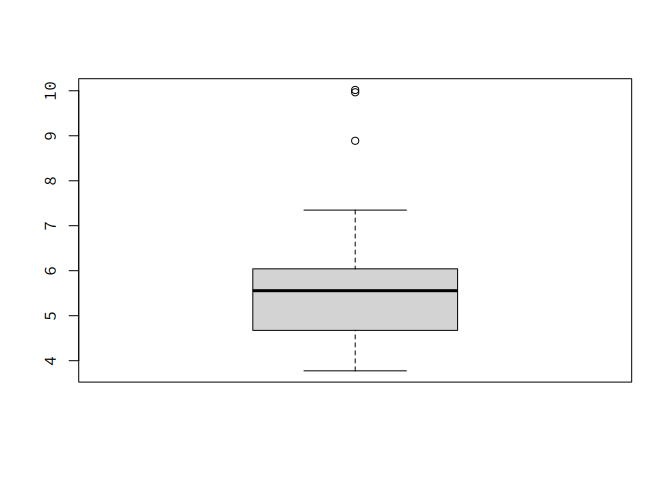
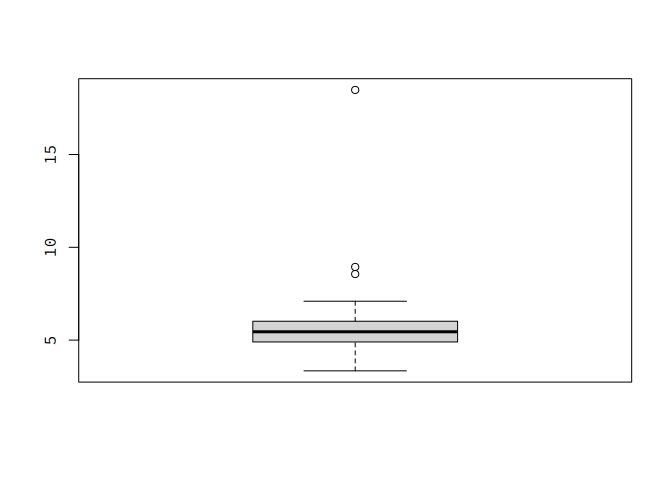
Dodano wnioski (do poprawy)

diff --git a/docs/README.md b/docs/README.md
@@ -83,11 +83,11 @@ Podsumowanie:
     summary(ackley_2_ga)
 
     ##    Min. 1st Qu.  Median    Mean 3rd Qu.    Max. 
-    ## 0.03216 0.21794 0.42402 0.59028 0.66128 2.46359
+    ## 0.02999 0.20099 0.46826 0.60629 0.92401 2.13830
 
 Średnia wartość:
 
-    ## [1] 0.5902753
+    ## [1] 0.6062938
 
 ### PRS
 
@@ -104,11 +104,11 @@ Podsumowanie:
     summary(ackley_2_prs)
 
     ##    Min. 1st Qu.  Median    Mean 3rd Qu.    Max. 
-    ##   1.906   3.222   3.832   3.911   4.425   7.026
+    ##  0.6788  3.1141  3.9176  4.1437  5.3528  8.1354
 
 Średnia wartość:
 
-    ## [1] 3.911098
+    ## [1] 4.14371
 
 ### Porównanie
 
@@ -118,13 +118,13 @@ Podsumowanie:
     ##  Welch Two Sample t-test
     ## 
     ## data:  ackley_2_ga and ackley_2_prs
-    ## t = -18.575, df = 73.332, p-value < 2.2e-16
+    ## t = -14.48, df = 58.068, p-value < 2.2e-16
     ## alternative hypothesis: true difference in means is not equal to 0
     ## 95 percent confidence interval:
-    ##  -3.677103 -2.964542
+    ##  -4.026420 -3.048413
     ## sample estimates:
     ## mean of x mean of y 
-    ## 0.5902753 3.9110977
+    ## 0.6062938 4.1437103
 
 ## Dla dwóch wymiarów - Funkcja Rastrigina
 
@@ -148,11 +148,11 @@ Podsumowanie:
     summary(rastrigin_2_ga)
 
     ##    Min. 1st Qu.  Median    Mean 3rd Qu.    Max. 
-    ## 0.00366 1.06867 1.50479 1.57228 2.08760 3.84409
+    ## 0.01221 1.02541 1.22151 1.47542 1.93272 5.67109
 
 Średnia wartość:
 
-    ## [1] 1.572275
+    ## [1] 1.475421
 
 ### PRS
 
@@ -169,11 +169,11 @@ Podsumowanie:
     summary(rastrigin_2_prs)
 
     ##    Min. 1st Qu.  Median    Mean 3rd Qu.    Max. 
-    ## 0.07412 1.03024 1.74475 1.78662 2.54177 3.97188
+    ##  0.1931  1.1598  1.5356  1.6456  2.2262  3.4321
 
 Średnia wartość:
 
-    ## [1] 1.786621
+    ## [1] 1.645605
 
 ### Porównanie
 
@@ -183,13 +183,13 @@ Podsumowanie:
     ##  Welch Two Sample t-test
     ## 
     ## data:  rastrigin_2_ga and rastrigin_2_prs
-    ## t = -1.1403, df = 97.014, p-value = 0.257
+    ## t = -0.95726, df = 93.458, p-value = 0.3409
     ## alternative hypothesis: true difference in means is not equal to 0
     ## 95 percent confidence interval:
-    ##  -0.5874107  0.1587189
+    ##  -0.5232036  0.1828346
     ## sample estimates:
     ## mean of x mean of y 
-    ##  1.572275  1.786621
+    ##  1.475421  1.645605
 
 ## Dla dziesięciu wymiarów - Funkcja Ackley’a
 
@@ -213,11 +213,11 @@ Podsumowanie:
     summary(ackley_10_ga)
 
     ##    Min. 1st Qu.  Median    Mean 3rd Qu.    Max. 
-    ##   3.774   4.681   5.556   5.611   6.035  10.018
+    ##   3.345   4.901   5.451   5.771   6.015  18.479
 
 Średnia wartość:
 
-    ## [1] 5.61068
+    ## [1] 5.770527
 
 ### PRS
 
@@ -234,11 +234,11 @@ Podsumowanie:
     summary(ackley_10_prs)
 
     ##    Min. 1st Qu.  Median    Mean 3rd Qu.    Max. 
-    ##   15.74   18.06   18.49   18.30   18.74   19.36
+    ##   14.61   17.65   18.33   18.02   18.77   19.30
 
 Średnia wartość:
 
-    ## [1] 18.29893
+    ## [1] 18.01777
 
 ### Porównanie
 
@@ -248,13 +248,13 @@ Podsumowanie:
     ##  Welch Two Sample t-test
     ## 
     ## data:  ackley_10_ga and ackley_10_prs
-    ## t = -58.843, df = 74.686, p-value < 2.2e-16
+    ## t = -36.884, df = 72.761, p-value < 2.2e-16
     ## alternative hypothesis: true difference in means is not equal to 0
     ## 95 percent confidence interval:
-    ##  -13.11783 -12.25867
+    ##  -12.90906 -11.58543
     ## sample estimates:
     ## mean of x mean of y 
-    ##   5.61068  18.29893
+    ##  5.770527 18.017775
 
 ## Dla dziesięciu wymiarów - Funkcja Rastringa
 
@@ -278,11 +278,11 @@ Podsumowanie:
     summary(rastrigin_10_ga)
 
     ##    Min. 1st Qu.  Median    Mean 3rd Qu.    Max. 
-    ##   47.39   68.34   77.16   75.55   83.45   96.84
+    ##   51.03   67.03   77.11   76.15   84.11  103.37
 
 Średnia wartość:
 
-    ## [1] 75.54835
+    ## [1] 76.15127
 
 ### PRS
 
@@ -299,11 +299,11 @@ Podsumowanie:
     summary(rastrigin_10_prs)
 
     ##    Min. 1st Qu.  Median    Mean 3rd Qu.    Max. 
-    ##   66.18   83.10   86.39   87.10   93.85  102.41
+    ##   63.52   82.77   88.38   87.42   93.24  104.84
 
 Średnia wartość:
 
-    ## [1] 87.10429
+    ## [1] 87.4223
 
 ### Porównanie
 
@@ -313,13 +313,13 @@ Podsumowanie:
     ##  Welch Two Sample t-test
     ## 
     ## data:  rastrigin_10_ga and rastrigin_10_prs
-    ## t = -5.6474, df = 86.671, p-value = 2.029e-07
+    ## t = -5.3386, df = 89.359, p-value = 7.046e-07
     ## alternative hypothesis: true difference in means is not equal to 0
     ## 95 percent confidence interval:
-    ##  -15.623257  -7.488621
+    ##  -15.465800  -7.076265
     ## sample estimates:
     ## mean of x mean of y 
-    ##  75.54835  87.10429
+    ##  76.15127  87.42230
 
 ## Dla dwudziestu wymiarów - Funkcja Ackley’a
 
@@ -343,11 +343,11 @@ Podsumowanie:
     summary(ackley_20_ga)
 
     ##    Min. 1st Qu.  Median    Mean 3rd Qu.    Max. 
-    ##   6.031   7.177   8.095   8.971   9.283  19.268
+    ##   6.790   7.414   8.038   8.697   9.033  18.878
 
 Średnia wartość:
 
-    ## [1] 8.970637
+    ## [1] 8.69688
 
 ### PRS
 
@@ -364,11 +364,11 @@ Podsumowanie:
     summary(ackley_20_prs)
 
     ##    Min. 1st Qu.  Median    Mean 3rd Qu.    Max. 
-    ##   19.39   19.70   19.83   19.85   20.01   20.40
+    ##   18.17   19.59   19.90   19.80   20.05   20.25
 
 Średnia wartość:
 
-    ## [1] 19.84623
+    ## [1] 19.79936
 
 ### Porównanie
 
@@ -378,13 +378,13 @@ Podsumowanie:
     ##  Welch Two Sample t-test
     ## 
     ## data:  ackley_20_ga and ackley_20_prs
-    ## t = -25.533, df = 49.589, p-value < 2.2e-16
+    ## t = -35.142, df = 52.146, p-value < 2.2e-16
     ## alternative hypothesis: true difference in means is not equal to 0
     ## 95 percent confidence interval:
-    ##  -11.73129 -10.01989
+    ##  -11.73640 -10.46856
     ## sample estimates:
     ## mean of x mean of y 
-    ##  8.970637 19.846227
+    ##   8.69688  19.79936
 
 ## Dla dwudziestu wymiarów - Funkcja Rastringa
 
@@ -408,11 +408,11 @@ Podsumowanie:
     summary(rastrigin_20_ga)
 
     ##    Min. 1st Qu.  Median    Mean 3rd Qu.    Max. 
-    ##   146.0   183.4   195.8   196.1   207.2   253.8
+    ##   146.2   178.7   189.9   192.6   207.7   239.3
 
 Średnia wartość:
 
-    ## [1] 196.0614
+    ## [1] 192.557
 
 ### PRS
 
@@ -429,11 +429,11 @@ Podsumowanie:
     summary(rastrigin_20_prs)
 
     ##    Min. 1st Qu.  Median    Mean 3rd Qu.    Max. 
-    ##   187.5   219.1   227.7   226.1   234.8   252.4
+    ##   183.6   220.0   229.8   227.2   238.5   253.1
 
 Średnia wartość:
 
-    ## [1] 226.1335
+    ## [1] 227.1903
 
 ### Porównanie
 
@@ -443,12 +443,25 @@ Podsumowanie:
     ##  Welch Two Sample t-test
     ## 
     ## data:  rastrigin_20_ga and rastrigin_20_prs
-    ## t = -8.2922, df = 77.834, p-value = 2.589e-12
+    ## t = -9.2081, df = 85.996, p-value = 1.855e-14
     ## alternative hypothesis: true difference in means is not equal to 0
     ## 95 percent confidence interval:
-    ##  -37.29227 -22.85199
+    ##  -42.11021 -27.15629
     ## sample estimates:
     ## mean of x mean of y 
-    ##  196.0614  226.1335
+    ##  192.5570  227.1903
 
 # Wnioski
+
+Z histogramów oraz z wykresów pudełkowych widać, że algorytm genetyczny
+jest bardziej konsekwentny w swoim działaniu - wartości każdego z 50
+wywołań są do siebie bardziej zbliżone niż wyniki z PRS - w
+szczególności dla mniejszej ilości wymiarów.
+
+<!-- o co mi tu chodzi?? -->
+
+Jest to najpewniej spowodowane tym, że algorytm GA ma więcej “kierunków
+w strone których może iść”
+
+Algorytm PRS jest, jak sama nazwa wskazuje, w pełni losowy, przez co nie
+ma aż tak wielkiej różnicy pomiędzy dwoma a dwudziestoma wymiarami.
